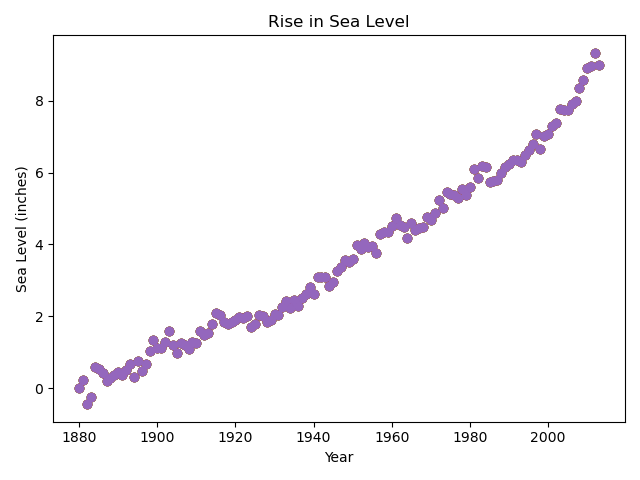
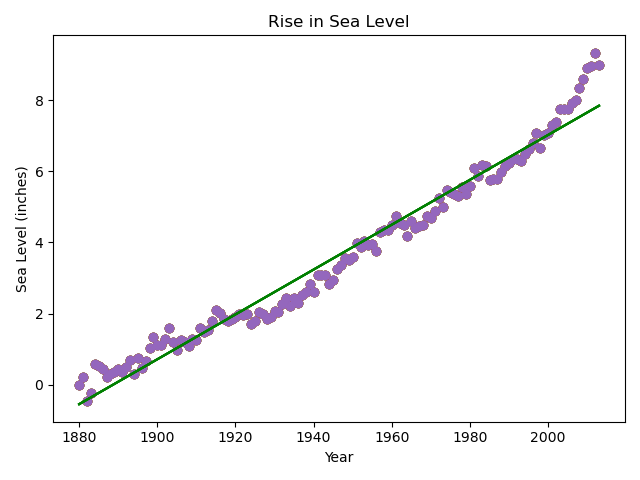
created first line of best fit

Changed region(s): [[0.0312, 0.2188, 0.9375, 0.875], [0.0312, 0.3438, 0.0938, 0.375]]

diff --git a/sea_level_predictor.py b/sea_level_predictor.py
@@ -9,12 +9,11 @@ def draw_plot():
     # Create scatter plot
     plt.scatter(x='Year', y='CSIRO Adjusted Sea Level', data=df)
  
-
     # Create first line of best fit
-
-
+    res = linregress(x=df['Year'], y=df['CSIRO Adjusted Sea Level'])
+    plt.plot(df.Year, res.intercept + res.slope*df.Year, 'g')
+    
     # Create second line of best fit
-
 
     # Add labels and title
     plt.title('Rise in Sea Level')
